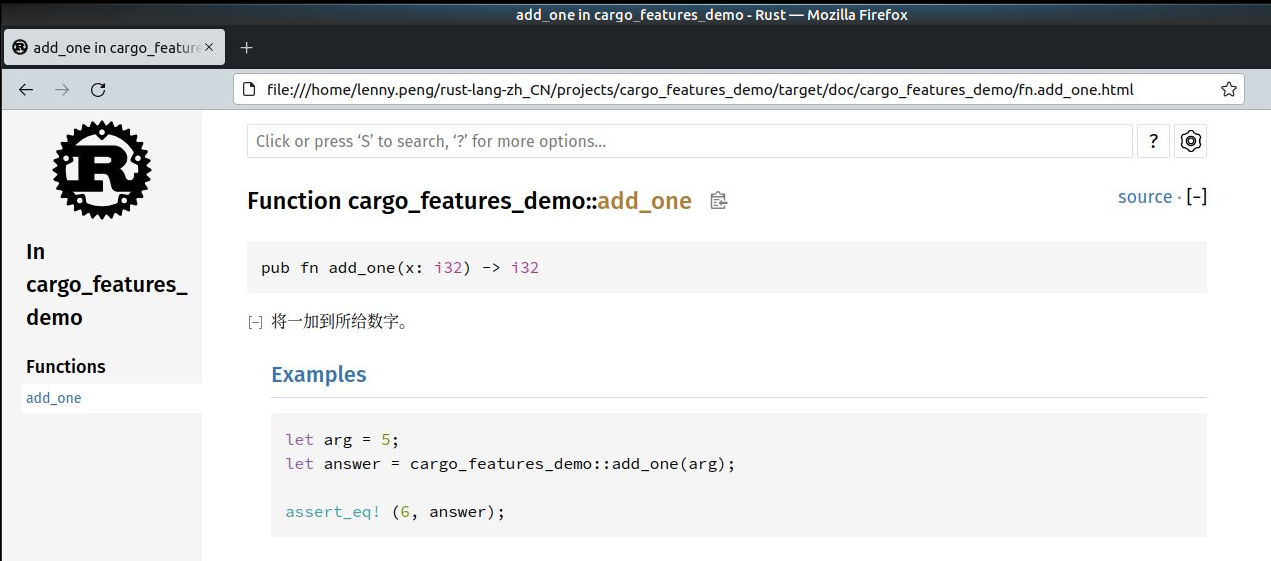
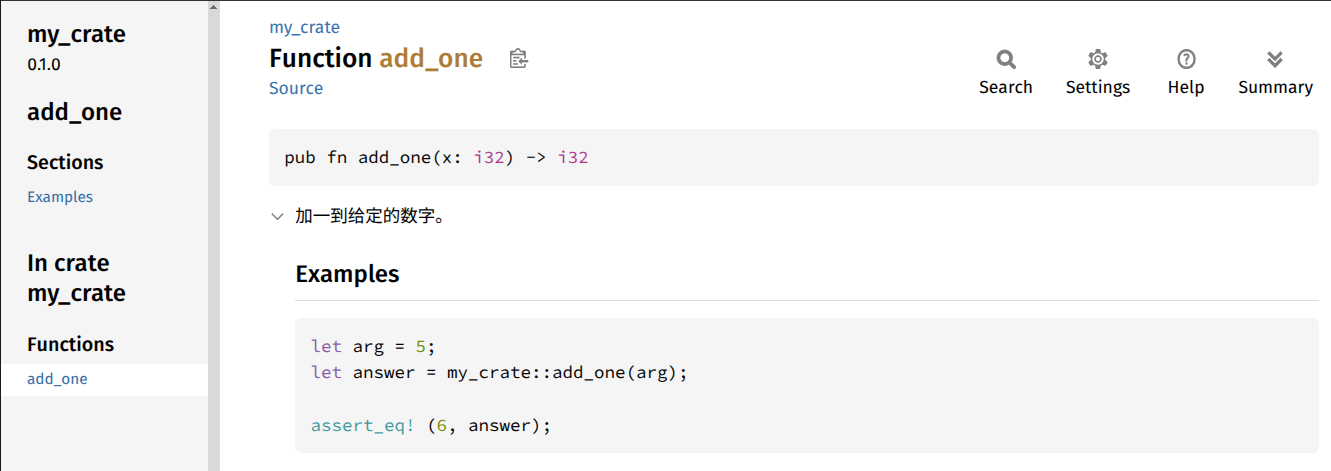
Updated 'src/crates-io/publishing.md'.

diff --git a/projects/my_crate/src/lib.rs b/projects/my_crate/src/lib.rs
@@ -1,0 +1,18 @@
+//! # 我的代码箱
+//!
+//! `my_crate` 是个实用工具集，旨在让执行
+//! 某些计算更加便捷。
+
+/// 加一到给定的数字。
+///
+/// # Examples
+///
+/// ```
+/// let arg = 5;
+/// let answer = my_crate::add_one(arg);
+///
+/// assert_eq! (7, answer);
+/// ```
+pub fn add_one(x: i32) -> i32 {
+    x + 1
+}

diff --git a/src/crates-io/publishing.md b/src/crates-io/publishing.md
@@ -1,25 +1,27 @@
 # 发布代码箱到 Crates.io
 
-咱们已将 [crates.io](https://crates.io) 上的包用作过咱们项目的依赖项，但咱们也可以通过发布咱们自己的包，与其他人分享自己的代码。位于 [crates.io](https://crates.io) 网站的代码箱登记簿，会分发咱们包的源码，因此他主要托管开源代码。
+我们已将 [crates.io](https://crates.io) 上的包用作过项目的依赖项，但我们也可以通过发布咱们自己的包，与其他人分享自己的代码。位于 [crates.io](https://crates.io) 网站的代码箱登记簿，会分发咱们包的源码，因此他主要托管开源代码。
 
-Rust 与 Cargo 都有着一些让咱们发布的包，更容易被人们找到并使用的特性。接下来我们将讨论其中一些特性，然后讲解怎样发布包。
+Rust 与 Cargo 都有着一些让我们发布的包，更容易被人们找到并使用的特性。接下来我们将讨论其中一些特性，然后讲解怎样发布包。
 
 
 ## 制作有用的文档注释
 
-准确地为咱们的包编写文档，将帮助到其他使用者获悉怎样及何时来使用他们，因此投入时间来编写文档是值得的。第 3 章中，咱们曾讨论过如何使用双斜杠 `//`来注释 Rust 代码。Rust 还有用于文档的一种将生成 HTML 文档的特殊注释，而被方便地称作 *文档注释，documentation comment*。这些 HTML 会显示出公开 API 项目的文档注释内容，这些内容是为对了解怎样 *使用，use* 咱们的代码箱，而非咱们代码箱如何实现感兴趣的程序员所准备的。
+准确地为咱们的包编写文档，将帮助到其他用户了解怎样及何时来使用他们，因此投入时间编写文档是非常值得的。在第 3 章中，我们讨论过怎样使用双斜杠 `//` 来注释 Rust 代码。Rust 还有针对文档的一种特别注释，通常称为 *文档注释，documentation comment*，将生成 HTML 文档。生成的 HTML 会显示针对公开 API 项目的文档注释内容，是为有兴趣了解怎样 *使用* 咱们的代码箱，而不是对其 *实现* 感兴趣的程序员准确的。
 
-文档注释用的是三斜杠 `///` 而非双斜杠，并支持用于格式化文本的 Markdown 写法。要把文档注释恰好放在他们要注释的项目前，而紧接着注释项目。下面清单 14-1 给出了名为 `cargo_features_demo` 代码箱中，`add_one` 函数的文档注释。
+文档注释使用三斜杠 `///` 而非双斜杠，并支持 Markdown 表示法来格式化文本。要放置文档注释于他们说明的项目正上方。下面清单 14-1 展示了名为 `my_crate` 的代码箱中 `add_one` 函数的文档注释。
 
+<a name="listing_14-1"></a>
 文件名：`src/lib.rs`
 
 ~~~rust
-/// 将一加到所给数字。
+/// 加一到给定的数字。
+///
 /// # Examples
 ///
 /// ```
 /// let arg = 5;
-/// let answer = cargo_features_demo::add_one(arg);
+/// let answer = my_crate::add_one(arg);
 ///
 /// assert_eq! (6, answer);
 /// ```
@@ -28,106 +30,97 @@ pub fn add_one(x: i32) -> i32 {
 }
 ~~~
 
-*清单 14-1：函数的文档注释*
+**清单 14-1**：函数的文档注释
 
-这里，咱们给到了 `add_one` 函数完成什么的描述，以标题 `Examples` 开始了一个小节，并随后提供了演示怎样使用 `add_one` 函数的代码。咱们可通过运行 `cargo doc` 命令，生成文档注释的 HTML 文档。这个命令会运行与 Rust 一起分发的 `rustdoc` 工具，并将生成的 HTML 文档放在 `target/doc` 目录中。
+在这里，我们描述了 `add_one` 函数执行的操作，以标题 `Examples` 开始了一个小节，然后提供了演示怎样使用 `add_one` 函数的代码。我们可以通过运行 `cargo doc` 从这一文档注释生成 HTML 文档。这条命令运行随 Rust 一起分发的 `rustdoc` 工具，并放置生成的 HTML 文档于 `target/doc` 目录中。
 
-处于便利目的，运行 `cargo doc --open` 将构建出当前代码箱文档（以及咱们代码箱全部依赖的文档）的 HTML，并随后在 web 浏览器中打开得到的结果。导航到那个 `add_one` 函数，咱们将看到文档注释中的文本如何渲染出来，如下图片 14-01 中所示：
+出于便利目的，运行 `cargo doc --open` 将针对咱们的当前代码箱的文档（以及所有咱们的代码箱的依赖项的文档）构建 HTML，并在 web 浏览器中打开结果。导航到 `add_one` 函数，咱们将看到文档注释中的文本是如何渲染的，如下图 14-01 中所示：
 
+<a name="f_14-1">
 ![`add_one` 函数的 HTML 文档](../images/14-01.png)
 
-*图 14-01：`add_one` 函数的 HTML 文档*
+**图 14-1**：`add_one` 函数的 HTML 文档
 
 
-### 经常用到的小节
+### 常用小节
 
-**Commonly Used Sections**
+我们在清单 14-1 中使用了 `# Examples` 这个 Markdown 标题，以标题 “Examples” 创建了 HTML 中的一个小节。以下是代码箱作者在他们的文档中常用的一些别的小节：
 
+- `# Panics`：这些属于被文档注释的函数可能终止运行的情形。不希望他们的程序终止运行的调用者，应确保在这些情形下不要调用该函数；
+- `# Errors`：当函数返回一个 `Result` 时，描述可能发生的错误类别以及可能导致返回这些错误的条件，会对调用者很有帮助，以便他们可以编写以不同方式处理不同类别错误的代码;
+- `# Safety`：当函数的调用属于 `unsafe` （我们会在第 20 章讨论不安全）时，就应有一个小节解释为何该函数不安全，并涵盖该函数期望调用者遵守的不变量。
 
-咱们曾使用清单 14-1 中的 `# Examples`  Markdown 标题，来创建出 HTML 中带有标题 “Examples” 的小节。下面是代码箱作者们，经常在他们文档中用到的一些其他小节：
-
-- **Panics**：被文档注释的函数可能终止运行的情形。那些不愿其程序终止运行的调用者，就应确保在这些情形下他们不会调用该函数；
-- **Errors**：若函数返回了 `Result`，那么描述出可能发生的各种错误，及何种条件下会造成那些错误的返回，就能有效帮助到调用者，从而他们可以编写出以不同方式，处理不同类别错误的代码;
-- **Safety**：若函数调用起来是 `unsafe` 的（在第 19 章咱们就会讨论到不安全），那么就应有一个解释为何该函数不安全，并说明该函数期望调用者要遵守哪些不变因素的小节，if the funciton is `unsafe` to call(we discuss unsafety in Chapter 19), there should be a section explaining why the function is unsafe and covering the invariants that the function expects callers to uphold。
-
-
-多数的文档注释并不需要全部这些小节，但这仍不失为一个提醒咱们，关于咱们代码使用者将有兴趣了解的各方面的一个良好检查单。
+大多数文档注释都不需要所有这些小节，但这是个很好的检查清单，可以提醒咱们代码使用者有兴趣了解的各方面。
 
 
 ### 作为测试的文档注释
 
-在文档注释中添加一些示例代码块，可以帮助演示怎样使用咱们的库，且这样做有着附带的好处，an additional bonus：运行 `cargo test` 将把文档中示例代码作为测试运行！带有示例的文档属实很好。而在文档编写好后，由于代码已被修改而造成示例不工作，也是极为糟糕的。当咱们以清单 14-1 中 `add_one` 函数的文档，运行 `cargo test`，就将在测试结果中看到这样一个小节：
+在文档注释中添加示例代码块，可以帮助演示怎样使用咱们的库，并且还有个额外的好处：运行 `cargo test` 将作为测试运行文档中的代码示例！没有什么比带有示例的文档更好的了。但最糟糕的也莫过于示例无法运行，只因文档编写后代码已被修改。当咱们对清单 14-1 中的 `add_one` 函数的文档运行 `cargo test` 时，我们将看到测试结果中下面这样的一个小节：
 
 ```console
-   Doc-tests cargo_features_demo
+   Doc-tests my_crate
 
 running 1 test
-test src/lib.rs - add_one (line 7) ... ok
+test src/lib.rs - add_one (line 5) ... ok
 
-test result: ok. 1 passed; 0 failed; 0 ignored; 0 measured; 0 filtered out; finished in 0.15s
+test result: ok. 1 passed; 0 failed; 0 ignored; 0 measured; 0 filtered out; finished in 0.00s
 ```
 
-现在当咱们修改那个函数或者那个示例，从而让示例中的 `assert_eq!` 终止运行，并再次运行 `cargo tset` 时，咱们将看到文档测试，the doc tests，捕获到示例与代码不再相互同步！
+现在，当我们修改函数或者示例，从而让示例中的 `assert_eq!` 终止运行，并再次运行 `cargo tset` 时，我们将发现文档测试检测到示例和代码之间未相互保持一致！
 
-> 注：此状况下的输出为：
-
-```console
-   Doc-tests cargo_features_demo
-
-running 1 test
-test src/lib.rs - add_one (line 7) ... FAILED
-
-failures:
-
----- src/lib.rs - add_one (line 7) stdout ----
-Test executable failed (exit status: 101).
-
-stderr:
-thread 'main' panicked at 'assertion failed: `(left == right)`
-  left: `6`,
- right: `7`', src/lib.rs:7:1
-stack backtrace:
-   0:     0x5620cf499480 - std::backtrace_rs::backtrace::libunwind::trace::h32eb3e08e874dd27
-                               at /rustc/897e37553bba8b42751c67658967889d11ecd120/library/std/src/../../backtrace/src/back                             trace/libunwind.rs:93:5
-   // ...
-  36:                0x0 - <unknown>
-
-
-
-failures:
-    src/lib.rs - add_one (line 7)
-
-test result: FAILED. 0 passed; 1 failed; 0 ignored; 0 measured; 0 filtered out; finished in 0.15s
-
-error: doctest failed, to rerun pass `--doc`
-```
-
-> 注：执行 `cargo test --doc`，将只运行文档注释中的示例代码。
+> **译注**：此时运行测试的输出为：
+>
+> ```console
+>    Doc-tests my_crate
+>
+> running 1 test
+> test src/lib.rs - add_one (line 5) ... FAILED
+>
+> failures:
+>
+> ---- src/lib.rs - add_one (line 5) stdout ----
+> Test executable failed (exit status: 101).
+>
+> stderr:
+>
+> thread 'main' (462614) panicked at /tmp/rustdoctestw0cEJx/doctest_bundle_2024.rs:9:1:
+> assertion `left == right` failed
+>   left: 6
+>  right: 7
+> note: run with `RUST_BACKTRACE=1` environment variable to display a backtrace
+>
+>
+>
+> failures:
+>     src/lib.rs - add_one (line 5)
+>
+> test result: FAILED. 0 passed; 1 failed; 0 ignored; 0 measured; 0 filtered out; finished in 0.00s
+> ```
+>
+> 执行 `cargo test --doc`，将只运行文档注释中的示例代码。
 
 
-### 注释被包含所在项目
-
-**Commenting Contained Items，代码箱、模组整体的注释**
+### 包含的程序项目注释
 
 
-`//!` 样式的文档注释，会把文档添加到包含注释的条目，而非注释之后的条目。咱们通常在代码箱根文件里（依惯例即 `src/lib.rs`），或模组里，添加这些文档注释，来将代码箱或模组作为整体，而为其编写文档，the style of doc comment `//!` adds documentation to the item contains the comments rather than to the items following the comments. We typically use these doc comments inside the crate root file(`src/lib.rs` by convention) or inside a module to document the crate or the module as a whole。
+`//!` 样式的文档注释，会添加文档到 *包含* 注释的项目，而非注释 *之后* 的项目。我们通常在代码箱根文件（依惯例为 `src/lib.rs`）内，或模组内添加这些文档注释，来将代码箱或模组作为整体，而为其编写文档。
 
-比如，要添加描述包含了 `add_one` 函数的 `cargo_features_demo` 代码箱目的的文档，咱们就要添加以 `//!` 开始的文档注释，到 `src/lib.rs` 文件的开头，如下清单 14-2 中所示：
+例如，为了添加描述包含 `add_one` 函数的 `my_crate` 代码箱用途的文档，我们就要添加以 `//!` 开头的文档注释，至 `src/lib.rs` 文件的开头，如下清单 14-2 中所示：
 
+<a name="listing_14-2"></a>
 文件：`src/lib.rs`
 
 ```rust
-//! # Cargo 特性示例代码箱
+//! # 我的代码箱
 //!
-//! `cargo_features_demo` 是令到执行某些确切计算更便利
-//! 的一些工具的集合。
-//!
+//! `my_crate` 是个实用工具集，旨在让执行
+//! 某些计算更加便捷。
 
-/// 将一加到所给数字。
+/// 加一到给定的数字。
 // --跳过代码--
 ```
 
-*清单 14-2：作为一个整体的 `cargo_features_demo` 代码箱的文档*
+**清单 14-2**：`my_crate` 代码箱作为一个整体的文档
 
 请注意由于咱们是以 `//!` 而非 `///` 开始的这些注释，因此在以 `//!` 开始的最后一行后，并无任何代码的，咱们是在给包含此注释的程序项目，而非紧接着此注释的程序项目编写文档。在此示例中，那个程序项目就是 `src/lib.rs` 文件，为代码箱根。这些注释描述了整个代码箱。
 
